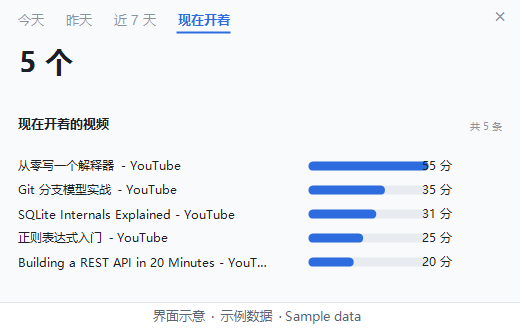
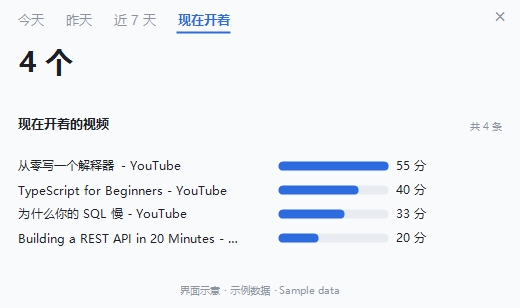
1.2：明细面板每行加「×」，误记的那条点一下就抹掉；看完门槛从 10 秒提到 15 秒

diff --git a/README.md b/README.md
@@ -20,7 +20,7 @@ This little tool turns that into a single number in the Windows system tray.
 - **One number is enough**: the tray icon shows how many video tabs are open, and hovering gives today's and yesterday's counts and lengths.
 - It reads the tab strip every 5 seconds and uses 100–150 MB of memory.
 
-Version 1.1 ｜ MIT license (see [LICENSE](LICENSE)) ｜ A personal tool; no promise it fits your setup
+Version 1.2 ｜ MIT license (see [LICENSE](LICENSE)) ｜ A personal tool; no promise it fits your setup
 
 ---
 
@@ -54,6 +54,9 @@ It is meant to be read as a picture, not as text:
   shows how many, how many have unknown durations, and how many are open right now.
 - Then the **finished videos** list: one row each, with the title, a bar drawn in proportion to its length, and the length on the right.
   When the list does not fit, a scrollbar appears on the right; the mouse wheel and dragging it both scroll.
+- Every row ends with an **×**. If something was recorded by mistake (you opened it, it should not have counted),
+  one click removes it from the record and the total and count above drop right away, no restart needed.
+  Only Today / Yesterday / Last 7 days have it; "Open right now" is the live tab strip, not the record, so it has none.
 - At the bottom, **Last 7 days** draws one bar per day, its height being that day's total. Only the "Last 7 days" tab
   shows this strip; hovering a bar highlights it and shows the date and length above it.
 
@@ -135,10 +138,10 @@ To make it match the tray dot: right-click the shortcut → Properties → Chang
 
 - A video counts as finished when it *used to be* in the tab strip and is *no longer* there: either you closed the tab,
   or the playlist moved on to the next item.
-- It has to have been **seen for at least 10 seconds** to count once. Opening it, realising it was a misclick and closing it
+- It has to have been **seen for at least 15 seconds** to count once. Opening it, realising it was a misclick and closing it
   immediately does not count.
 - It scans the tab strip every 5 seconds, so "how long it was seen" is measured at that granularity:
-  10 seconds means at least two scans.
+  15 seconds means at least three scans.
 - Which day it counts towards is the moment it **left the tab strip**, not when it was opened.
 - The same video watched twice counts once; the title decides that. Re-watching within one day does not double count,
   and in "Last 7 days" watching it again on another day does not either; its length is counted once too.
@@ -264,6 +267,7 @@ The version number is under the title of this README, and in the comment at the 
 
 ## Version history
 
+- **1.2** (2026-10-13) — every row in the details panel now ends with an × that removes a mis-recorded video; the total and count drop immediately. The "finished" threshold went from 10 to 15 seconds.
 - **1.1** (2026-10-12) — the tray click is now a toggle: click to open, click again to close. Fixed title cleaning: the status text Chrome appends to tab names (audio playing, high memory usage) is now stripped repeatedly, and 10 dirty keys from the past were repaired at startup.
 - **1.0** (2026-10-12) — first release: the tray icon shows how many video tabs are open; the details panel lists the finished videos and their lengths for today / yesterday / the last 7 days; the right-click menu has refresh, open folder and exit.
 

diff --git a/NOTES.md b/NOTES.md
@@ -79,14 +79,34 @@ UTF-16，同样对齐）的布局。
 **不需要单独做机制**——它跟「关标签」在数据上是一回事。所以整套逻辑只有一句：
 曾经出现过、后来又不在集合里的，记一次。
 
-后来加了一条门槛：**得被看到至少 10 秒才算**。因为轮询是 5 秒一次，
+后来加了一条门槛：**得被看到至少 15 秒才算**。因为轮询是 5 秒一次，
 点开一个、发现点错了、马上叉掉，有时候正好卡在两次轮询之间没被读到，有时候又被读到了——
 同一个动作算不算，全看手速和轮询的相位，这不能叫规则。现在每个视频记下第一次看到的时间，
-离开标签栏时不够 10 秒的直接丢掉，只在 `state.open` 里移到移除，不写进「看完」。
+离开标签栏时不够 15 秒的直接丢掉，只在 `state.open` 里移到移除，不写进「看完」。
 
 真正需要加保护的是反面：Chrome 整个退出时，所有标签页会同时消失。不拦的话，
 用户关一次浏览器，当时开着的所有标签会被一次性记成「看完」。现在的做法是 Chrome 没在跑
 就完全冻结，什么都不改；另外一次性少掉特别多时，也当作浏览器没恢复标签页，不计入。
+
+## 后来加的：把误记的擦掉
+
+门槛解决的是「点错一下别记」，但门槛挡不住所有误记——轮询是 5 秒一次，你点开一个视频、
+看了十几秒、发现不对再叉掉，它照样会被记成一次看完。用户后来提的是：已经看过的那天里，
+得能把误记的擦掉。
+
+所以给明细面板每一行加了一个「×」。动手之前先改了自己的一条规矩：这个面板本来是**只读**的，
+那是因为用户明确说过要只读；现在他要能删，那就只加这一个可操作项，不顺手扩成可编辑。
+
+几件事是想清楚了才写的：
+
+- **删的是记录，不是缓存。** 面板上所有数字都是每次重画时现算的，删完立刻落盘，
+  合计、条数、底部那排柱子、托盘提示下一次重画就全跟着变——这里一旦加缓存，删完必然对不上。
+- **「近 7 天」那一栏删的是什么？** 那一栏是按标题去重后的七天合集，同一个视频跨天看两次只算一条。
+  所以在那栏点「×」，删的是这七天里所有同名记录；只删当天的话，删完它还在列表里，看着像没生效。
+- **「现在开着」那栏不给「×」。** 那是此刻标签栏的实况，不是记录，删它没有意义。
+- **命中位置用的是重画时记下来的矩形。** 面板是自绘的，没有控件可以挂事件；
+  每次 `Draw-Panel` 把每行「×」的矩形存进 `$script:RowDelRects`，点击和悬停都拿它做判断。
+  行的 y 本来就是画的时候算出来的，所以命中区永远跟画出来的东西对齐——不要另外再算一遍。
 
 ## 时长：三种取法实测对比
 

diff --git a/AGENTS.md b/AGENTS.md
@@ -40,8 +40,8 @@
   不要改成「把七天的数按天相加」。用户有重复点开回看的习惯，按天相加会把同一个视频的长度
   重复算进去——真发生过：面板上小字写「共 65 个」，列表却只有 61 条。
 
-- **「看完」有 10 秒门槛（代码里的 `$MinWatchSec`）。** `state.open` 的值是
-  「第一次看到它的时间戳」，不是 `$true`；一个键离开标签栏时，停留不足 10 秒的
+- **「看完」有 15 秒门槛（代码里的 `$MinWatchSec`）。** `state.open` 的值是
+  「第一次看到它的时间戳」，不是 `$true`；一个键离开标签栏时，停留不足 15 秒的
   当点错处理：只从 `open` 里移除，不写进 `closed`。
   不要改回「不见了就记一笔」——那样点错一下也会被算成看完。
   老状态里 `open` 的值是 `$true`（没有时间戳），读的时候按「早就看到了」算，别让升级丢记录。
@@ -95,7 +95,13 @@
     计时器一触发就报「不能对 Null 值表达式调用方法」，表现为面板一打开就崩。
   - `Initialize-WinForms` 里装了 `Application.add_ThreadException`，界面异常会连堆栈写进
     `counter.log`。别删——没有它只会弹一个没有堆栈的框，极难查。
-- 面板是只读展示，没有输入控件；用户要的是只读，不是可编辑。
+- **面板只有一个可操作项：每条右边的「×」，用来抹掉误记的记录。** 其余仍然是只读展示，不要顺手加别的输入控件。
+  用户最早要的是只读，后来要的是「能把误认的那些擦掉」——就只加这一个，不要扩成可编辑。
+  「×」只画在「今天 / 昨天 / 近 7 天」这三栏；「现在开着」是此刻标签栏的实况、不是记录，那栏不给它。
+  点一下直接删、没有二次确认：删完当场 `Save-State`，面板的大字合计、条数、底部柱子、托盘提示都是现算的，下一次重画就跟着变。
+  所以**不要**给面板上的数字加缓存——一缓存，删完就对不上了。
+  「近 7 天」那一栏是按标题去重的七天合集，在那栏删等于把这七天里所有同名的都抹掉（`Remove-PanelVideo` 就是这么做的）；只删当天的话，删完它还在。
+  改完删除相关代码，务必真的点一次那个「×」，确认那一行消失、合计往下掉、面板高度跟着收。
 - 提示和明细里**不写**实现说明（数据来源、判断规则那一类）。那些属于本文件和代码注释。
 - **界面截图只许用示例数据，并在图下注明「界面示意，示例数据」。** 绝不贴自己机器的截图。
   示例数字要造得像那么回事（太小会被一眼看成假的），但一个都不能来自真实记录。
